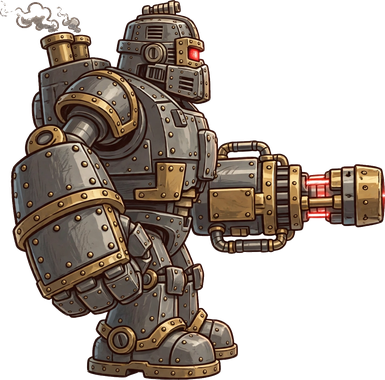
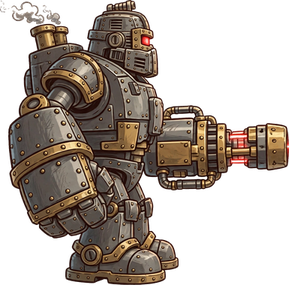
Batch 29 poprawki: TYTAN 75% rozmiaru, promienie z oczu zamiast dziala, plac budowy przeciagany jak wieza (tylko zielone pole maski)

diff --git a/game.py b/game.py
@@ -351,6 +351,12 @@ class Game:
         self._true_victory = False
         self._robot_img_cache = {}
         self._site_surf = None
+        self._site_pos = None  # None = domyslny punkt; gracz przeciaga plac jak wieze
+        self._site_dragging = False
+        self._site_drag_dx = 0
+        self._site_drag_dy = 0
+        self._site_drag_from = None
+        self._site_drag_valid = True
         self._building_rect = pygame.Rect(110, 158, 353, 231)  # bbox of drawn highlight polygon
         self._building_icons = {}
         for uid in ("walls", "drones", "tesla", "treasury", "bounty",
@@ -1996,8 +2002,13 @@ class Game:
                     _gx, _gy = self._to_game_pos(event.pos)
                     self.menu.x = max(100, min(self.width - 100, _gx + self.menu_drag_dx))
                     self.menu.y = max(190, min(self.height - 190, _gy + self.menu_drag_dy))
+                # Przeciganie placu budowy TYTANA (jak wieza: tylko na zielone)
+                if event.type == pygame.MOUSEMOTION and self._site_dragging:
+                    _gx, _gy = self._to_game_pos(event.pos)
+                    self._site_drag_move((_gx, _gy))
                 if event.type == pygame.MOUSEBUTTONUP:
                     self.menu_dragging = False
+                    self._site_drag_end()
                 if event.type == pygame.KEYDOWN:
                     # Pomoc otwarta: strzalki / A,D zmieniaja strone (nie zamykaja)
                     if getattr(self, '_show_help', False) and event.key in (pygame.K_LEFT, pygame.K_a):
@@ -2192,6 +2203,9 @@ class Game:
                             self.menu_drag_dx = self.menu.x - pos[0]
                             self.menu_drag_dy = self.menu.y - pos[1]
                             continue
+                    # Przeciganie placu budowy TYTANA: klik na rusztowanie = drag
+                    if not _upg_open and self._site_drag_start(pos):
+                        continue
                     # Q3: Shift+klik = szybka sprzedaz wiezy / klastra kolcow
                     keys = pygame.key.get_mods()
                     if keys & pygame.KMOD_SHIFT and self.selected_tower:
@@ -2475,6 +2489,8 @@ class Game:
         self._bot = None
         self._robot_wave_total = 0
         self._true_victory = False
+        self._site_pos = None
+        self._site_dragging = False
         try:
             self.ship.x, self.ship.y = self.ship.dock_x, self.ship.dock_y
         except Exception:
@@ -5510,8 +5526,74 @@ class Game:
     # ============ Batch 29: wiezyczki Walls L2 + PROJEKT TYTAN ============
 
     def _robot_site(self):
-        """Plac budowy TYTANA: trawa w luku drogi, na wschod od budynku."""
-        return (700, 545)
+        """Plac budowy TYTANA. Domyslnie trawa w luku drogi (660,500 -
+        zweryfikowany zielony punkt maski); gracz moze plac przeciagac,
+        ale upuscic wolno tylko na zielone pole, jak wieze."""
+        return getattr(self, "_site_pos", None) or (660, 500)
+
+    def _robot_eye(self, b, bob=0.0, yoff=0.0):
+        """Punkt wizjera (sprite 75%): stad leca promienie z oczu."""
+        return (b["x"] + b["facing"] * 81, b["y"] - 214 + bob + yoff)
+
+    def _site_valid(self, x, y):
+        """Czy plac moze stac w (x,y): dokladnie jak wieza - cala elipsa
+        podstawy 80x30 (srodek + 16 probek obwodowych) na zielonym polu."""
+        if not self._point_placeable(x, y):
+            return False
+        for i in range(16):
+            a = 2 * math.pi * i / 16
+            if not self._point_placeable(x + 40 * math.cos(a), y + 15 * math.sin(a)):
+                return False
+        return True
+
+    def _site_rect(self):
+        sx, sy = self._robot_site()
+        return pygame.Rect(sx - 130, sy - 200, 260, 215)
+
+    def _site_moved(self):
+        """Po przeniesieniu placu: robotnicy dostaja nowe stanowiska
+        (dochodza tam sami, trybem 'working')."""
+        sx, sy = self._robot_site()
+        spots = [(sx - 60, sy + 7), (sx + 70, sy + 7)]
+        i = 0
+        for d in self._dancers:
+            if d.get("alive") and d.get("mode") == "working":
+                d["work_x"], d["work_y"] = spots[i % len(spots)]
+                i += 1
+
+    def _site_drag_start(self, pos):
+        """Poczatek przeciagania placu (jak wieza: tylko w trakcie budowy,
+        bez otwartego menu i bez wiezy w rece). True = klik zlapany."""
+        if not self._robot or self._robot_phase:
+            return False
+        if getattr(self, "moving_object", None) is not None:
+            return False
+        if not self._site_rect().collidepoint(pos):
+            return False
+        sx, sy = self._robot_site()
+        self._site_dragging = True
+        self._site_drag_from = (sx, sy)
+        self._site_drag_dx = sx - pos[0]
+        self._site_drag_dy = sy - pos[1]
+        self._site_drag_valid = True
+        return True
+
+    def _site_drag_move(self, pos):
+        if not self._site_dragging:
+            return
+        nx = max(140, min(990, pos[0] + self._site_drag_dx))
+        ny = max(240, min(690, pos[1] + self._site_drag_dy))
+        self._site_pos = (nx, ny)
+        self._site_drag_valid = self._site_valid(nx, ny)
+
+    def _site_drag_end(self):
+        if not self._site_dragging:
+            return
+        self._site_dragging = False
+        if not self._site_drag_valid:
+            # Jak wieza na czerwonym: nie wolno - plac wraca na miejsce
+            self._site_pos = self._site_drag_from
+        self._site_moved()
 
     def _robot_unlocked(self):
         """Odblokowanie TYTANA: KAZDY inny upgrade (budynek + namiot) kupiony
@@ -5545,12 +5627,10 @@ class Game:
         self._add_gold_spent(cost)
         dur = 5 if len(alive) >= 2 else 10
         self._robot = {"waves_started": 0, "duration": dur, "final_armed": False}
-        sx, sy = self._robot_site()
-        spots = [(sx - 60, sy + 7), (sx + 70, sy + 7)]
-        for i, d in enumerate(alive):
+        for d in alive:
             d["mode"] = "working"
             d["target"] = None
-            d["work_x"], d["work_y"] = spots[i % len(spots)]
+        self._site_moved()
         # Tylko zloty pasek powiadomien: tekst jest za dlugi na wielki banner fali
         self.gold_notifications.append([tr("robot.started", waves=dur), 260])
 
@@ -5710,8 +5790,8 @@ class Game:
                     hp = max(0, int(getattr(best, "health", 0)))
                     best.hit(999999)
                     self.stats_damage += hp
-                    mx = b["x"] + b["facing"] * 138
-                    my = b["y"] - 148
+                    # Promien leci z OCZU (wizjer), nie z dziala na ramieniu
+                    mx, my = self._robot_eye(b)
                     b["beam"] = {"x1": mx, "y1": my, "x2": best.x, "y2": best.y - 20, "t": 20}
                     self.particles.burst(best.x, best.y - 20, (255, 150, 80),
                                           count=10, speed=3, life=20, size=3)
@@ -5827,13 +5907,19 @@ class Game:
         sx, sy = self._robot_site()
         p = self._robot_progress()
         img = self._robot_sprite(False)
-        reveal = int(380 * p)
+        W, H = img.get_size()
+        reveal = int(H * p)
         if reveal > 4:
             prev = self.win.get_clip()
-            self.win.set_clip(pygame.Rect(sx - 200, sy - reveal, 400, reveal))
-            self.win.blit(img, (sx - 192, sy - 380))
+            self.win.set_clip(pygame.Rect(sx - W // 2 - 8, sy - reveal, W + 16, reveal))
+            self.win.blit(img, (sx - W // 2, sy - H))
             self.win.set_clip(prev)
         self.win.blit(self._site_surface(), (sx - 125, sy - 168))
+        if self._site_dragging:
+            # Jak przy stawianiu wiezy: stopa placu + kolor walidacji
+            col = (90, 230, 120) if self._site_drag_valid else (235, 70, 60)
+            pygame.draw.ellipse(self.win, col, (sx - 40, sy - 15, 80, 30), 3)
+            pygame.draw.rect(self.win, col, (sx - 125, sy - 168, 250, 175), 2)
         # Etykieta + pasek postepu nad rusztowaniem
         lbl = self.font_btn18.render(
             f"{tr('hud.robot')}: {self._robot['waves_started']}/{self._robot['duration']}",
@@ -5845,33 +5931,31 @@ class Game:
         pygame.draw.rect(self.win, (255, 190, 70), (bx, by + 22, int(124 * p), 6), border_radius=3)
 
     def _draw_robot(self):
-        """TYTAN w scenie koncowej: wielki sprite (lustro wg kierunku),
-        pulsujacy wizjer, wiazki lasera (marsz + final w statek)."""
+        """TYTAN w scenie koncowej: sprite 75% (lustro wg kierunku),
+        pulsujacy wizjer, promienie z oczu (marsz + final w statek)."""
         if self._robot_phase not in ("rise", "march", "laser", "sink"):
             return
         b = self._bot
         img = self._robot_sprite(b["facing"] < 0)
+        W, H = img.get_size()
         bob = math.sin(b["t"] * 0.25) * 2 if self._robot_phase == "march" else 0
         yoff = (1 - min(1, b["t"] / 50)) * 55 if self._robot_phase == "rise" else 0
-        self.win.blit(img, (b["x"] - 192, b["y"] - 380 + bob + yoff))
-        # Pulsujacy czerwony wizjer
-        vx = b["x"] + b["facing"] * 108
-        vy = b["y"] - 285 + bob + yoff
+        self.win.blit(img, (b["x"] - W // 2, b["y"] - H + bob + yoff))
+        # Pulsujacy czerwony wizjer - zrodlo promieni
+        ex, ey = self._robot_eye(b, bob, yoff)
         r = 5 + int(2 * math.sin(b["t"] * 0.2))
-        pygame.draw.circle(self.win, (255, 60, 50), (int(vx), int(vy)), r)
-        # Wiazka marszowa (krotka)
+        pygame.draw.circle(self.win, (255, 60, 50), (int(ex), int(ey)), r)
+        # Wiazka marszowa (krotka, z oczu)
         if b.get("beam"):
             bm = b["beam"]
             self._draw_beam(bm["x1"], bm["y1"] + bob, bm["x2"], bm["y2"])
-        # Final: ladowanie wizjera-dziala, potem stala wiazka w statek
+        # Final: ladowanie wizjera, potem stala wiazka z oczu w statek
         if self._robot_phase == "laser":
-            mx = b["x"] + b["facing"] * 138
-            my = b["y"] - 148
             if b["t"] < 45:
-                pygame.draw.circle(self.win, (255, 120, 60), (int(mx), int(my)), 3 + b["t"] // 3)
-                pygame.draw.circle(self.win, (255, 240, 220), (int(mx), int(my)), 2 + b["t"] // 6)
+                pygame.draw.circle(self.win, (255, 120, 60), (int(ex), int(ey)), 3 + b["t"] // 3)
+                pygame.draw.circle(self.win, (255, 240, 220), (int(ex), int(ey)), 2 + b["t"] // 6)
             else:
-                self._draw_beam(mx, my, self.ship.x - 20, self.ship.y - 25)
+                self._draw_beam(ex, ey, self.ship.x - 20, self.ship.y - 25)
 
     def _upg_level(self, container, uid):
         """Poziom upgrade'a (0 = niekupiony). Kontenery upgradow to dict
